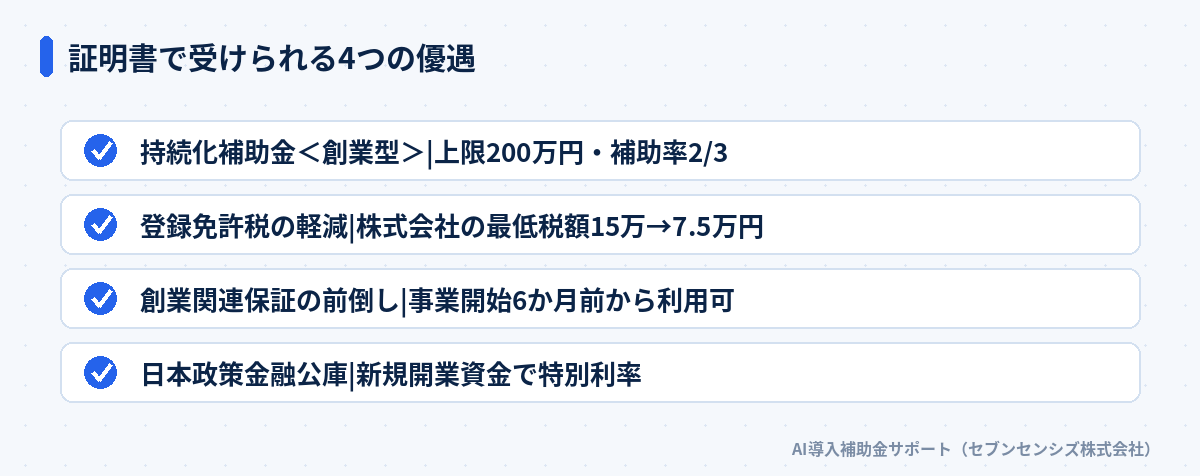
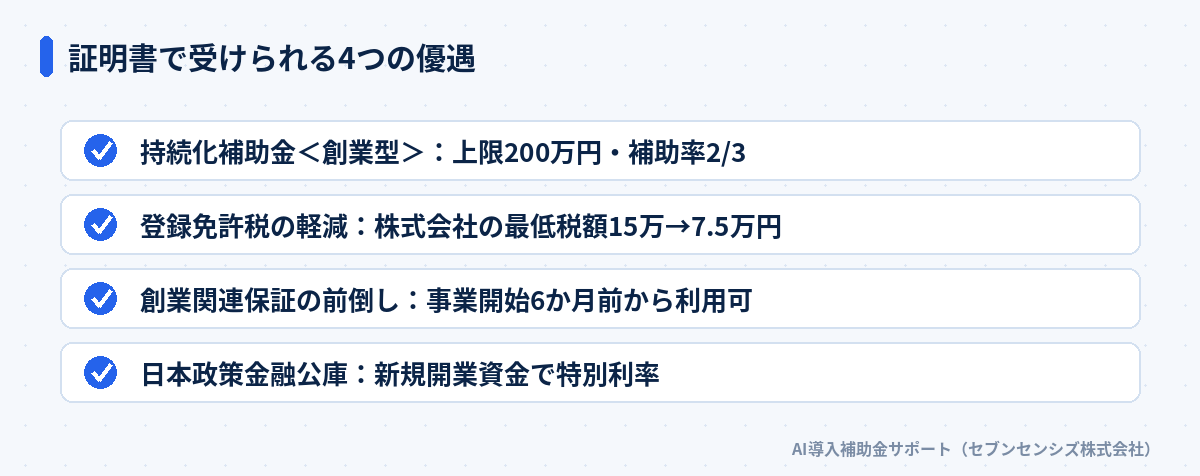
publish: 創業支援等事業者の補助金｜個人事業主は証明書で上限200万円（score 90 / 2026-09-23）

diff --git a/blog/sogyo-shien-hojokin-kojinjigyonushi/index.html b/blog/sogyo-shien-hojokin-kojinjigyonushi/index.html
@@ -349,7 +349,7 @@ window.addEventListener('load',function(){setTimeout(function(){var s=document.c
 <h4 id="2-441">ステップ2: 4分野を4回以上・1か月以上受ける</h4>
 <p>経営・財務・人材育成・販路開拓の4分野を受け切ります。欠席すると回数が足りなくなるため、日程を先に確保します。</p>
 <h4 id="3_2">ステップ3: 市区町村の窓口で証明書を受け取る</h4>
-<p>修了後に交付申請をします。発行まで数日から2週間ほどかかる自治体があります。</p>
+<p>修了後に交付申請をします。発行までの日数は自治体ごとに違うため、申し込むときに窓口で確認してください。</p>
 <h4 id="4_2">ステップ4: 商工会・商工会議所で事業支援計画書をもらう</h4>
 <p>事業計画書の案を持って相談します。第4回は12月4日が発行受付の締切です。</p>
 <h4 id="5_1">ステップ5: 電子申請で提出する</h4>

diff --git a/blog-system/content/posted/sogyo-shien-hojokin-kojinjigyonushi.md b/blog-system/content/posted/sogyo-shien-hojokin-kojinjigyonushi.md
@@ -13,7 +13,7 @@ diagrams:
   - name: yuugu
     type: list
     title: 証明書で受けられる4つの優遇
-    items: ["持続化補助金＜創業型＞|上限200万円・補助率2/3", "登録免許税の軽減|株式会社の最低税額15万→7.5万円", "創業関連保証の前倒し|事業開始6か月前から利用可", "日本政策金融公庫|新規開業資金で特別利率"]
+    items: ["持続化補助金＜創業型＞：上限200万円・補助率2/3", "登録免許税の軽減：株式会社の最低税額15万→7.5万円", "創業関連保証の前倒し：事業開始6か月前から利用可", "日本政策金融公庫：新規開業資金で特別利率"]
   - name: shippai
     type: vs
     title: 証明書を活かせない人と活かせる人の違い
@@ -158,7 +158,7 @@ AI導入補助金は、個人事業主に確定申告書の控えと納税証明
 
 #### ステップ3: 市区町村の窓口で証明書を受け取る
 
-修了後に交付申請をします。発行まで数日から2週間ほどかかる自治体があります。
+修了後に交付申請をします。発行までの日数は自治体ごとに違うため、申し込むときに窓口で確認してください。
 
 #### ステップ4: 商工会・商工会議所で事業支援計画書をもらう
 
